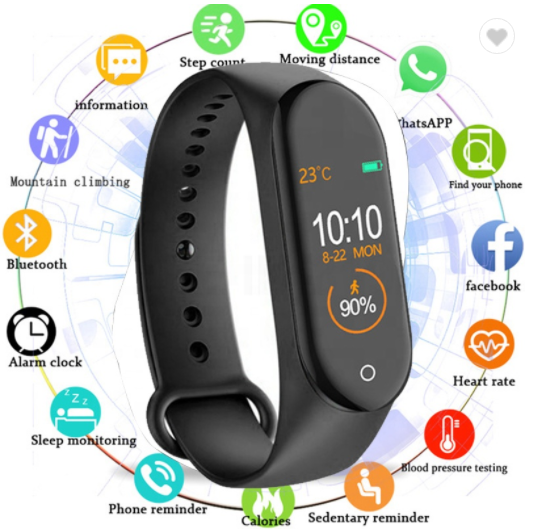
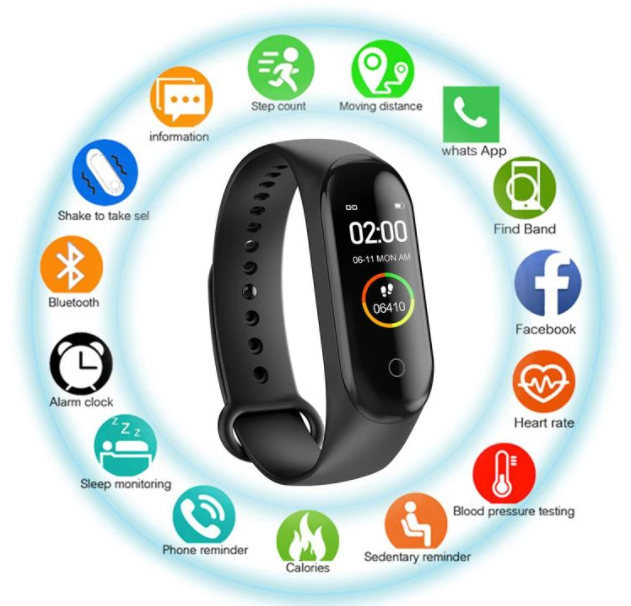
Add files via upload

diff --git a/watch.html b/watch.html
@@ -110,7 +110,7 @@
             <div class="row">
                 <div class="col-xl-6 col-lg-6 col-md-6 co-sm-l2">
                     <div class="about_img">
-                        <figure><img src="images/watch_main.PNG" alt="img" /></figure>
+                        <figure><img src="images/watch1.PNG" alt="img" /></figure>
                     </div>
                 </div>
                 <div class="col-xl-6 col-lg-6 col-md-6 co-sm-l2">
@@ -128,63 +128,46 @@
                         <p>Heart Rate monitoring, SPO2 and Blood pressure estimates, sleep monitoring and much more.</p>
                     </div>
                 </div>
+				
+				 <div class="col-xl-6 col-lg-6 col-md-6 co-sm-l2">
+                    <div class="about_img">
+                        <figure><img src="images/watch2.PNG" alt="img" /></figure>
+                    </div>
+					
+					
+                </div>
+				
+				<div class="col-xl-6 col-lg-6 col-md-6 co-sm-l2">
+                    <div class="about_img">
+                        <figure><img src="images/watch7.PNG" alt="img" /></figure>
+                    </div>
+					
+                </div>
+                <div class="col-xl-6 col-lg-6 col-md-6 co-sm-l2">
+                     <div class="about_img">
+                        <figure><img src="images/watch4.PNG" alt="img" /></figure>
+                    </div>
+                </div>
+				
+                <div class="col-xl-6 col-lg-6 col-md-6 co-sm-l2">
+                    <div class="about_img">
+                        <figure><img src="images/watch5.PNG" alt="img" /></figure>
+                    </div>
+					
+                </div>
+				<div class="col-xl-6 col-lg-6 col-md-6 co-sm-l2">
+                    <div class="about_img">
+                        <figure><img src="images/watch6.PNG" alt="img" /></figure>
+                    </div>
+					
+                </div>
                
             </div>
         </div>
     </div>
     </div>
     <!-- end about -->
-	<section class="slider_section">
-        <div id="myCarousel" class="carousel slide banner-main" data-ride="carousel">
-		<ol class="carousel-indicators">
-    <li data-target="#carouselExampleIndicators" data-slide-to="0" class="active"></li>
-    <li data-target="#carouselExampleIndicators" data-slide-to="1"></li>
-    <li data-target="#carouselExampleIndicators" data-slide-to="2"></li>
-  </ol>
-            <div class="carousel-inner">
-			
-                <div class="carousel-item active">
-                    <img src="images/watch1.PNG" style="width:100%" alt="First slide">
-                    <div class="container">
-                        <div class="carousel-caption relative">
-                  
-								
-                           
-                        </div>
-                    </div>
-                </div>
-                <div class="carousel-item">
-
-                    <img src="images/watch2.PNG" style="width:100%" alt="Second slide">
-                    <div class="container">
-                        <div class="carousel-caption relative">
-                           
-								
-                           
-                        </div>
-                    </div>
-                </div>
-				                <div class="carousel-item">
-                    <img src="images/watch_main.PNG" style="width:100%" alt="Second slide">
-                    <div class="container">
-                        <div class="carousel-caption relative">
-                           
-								
-                           
-                        </div>
-                    </div>
-                </div>
-				
-
-            </div>
-            <a class="carousel-control-prev" href="#myCarousel" role="button" data-slide="prev">
-                <i class='fa fa-angle-left'></i>
-            </a>
-            <a class="carousel-control-next" href="#myCarousel" role="button" data-slide="next">
-                <i class='fa fa-angle-right'></i>
-            </a>
-        </div>
-    </section>
+	
 
     <!-- footer -->
     <footer>
